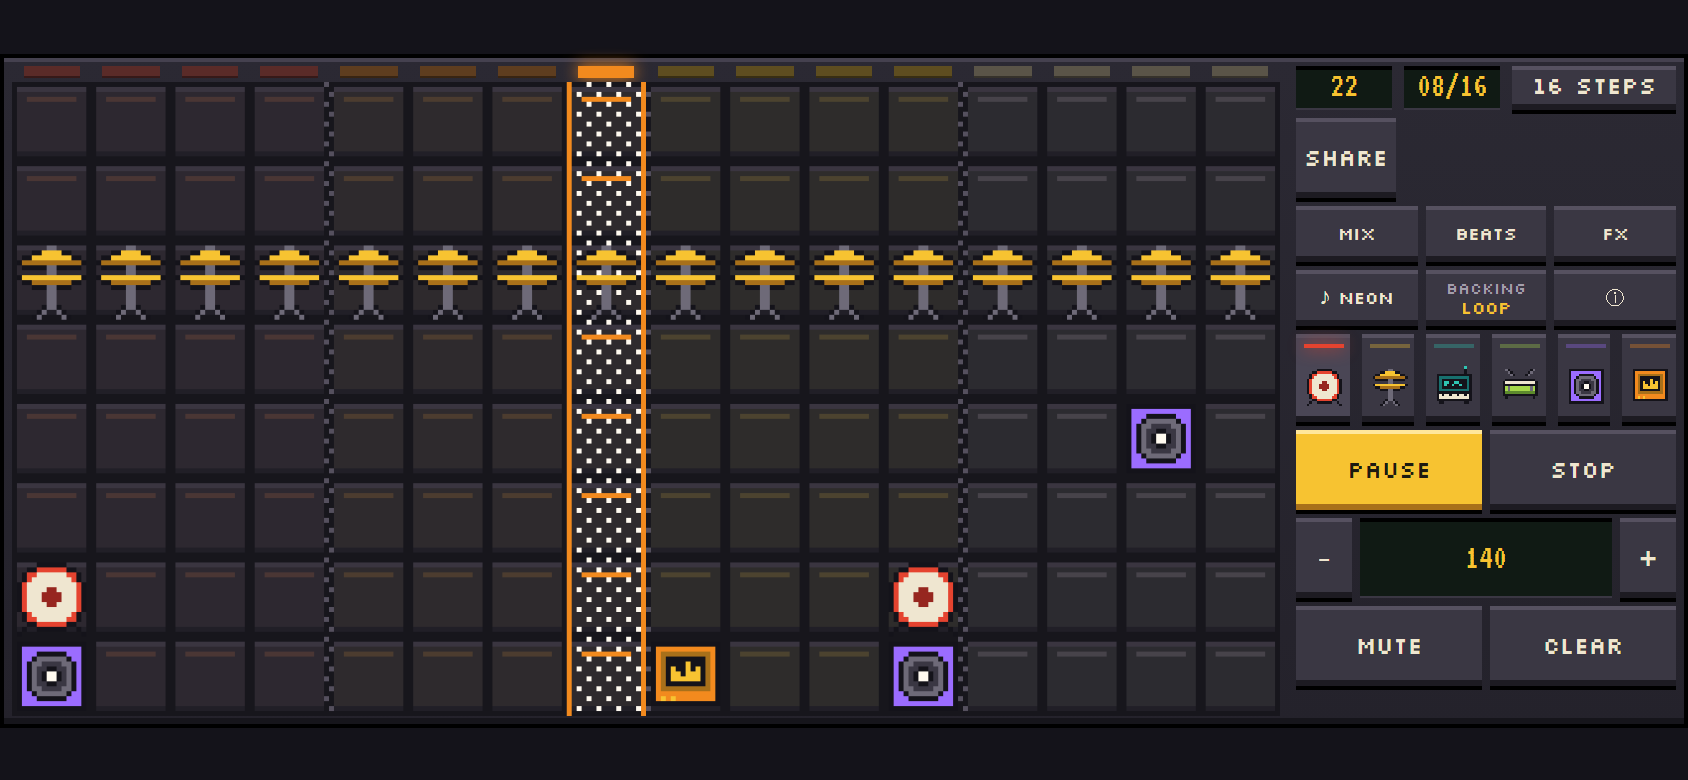
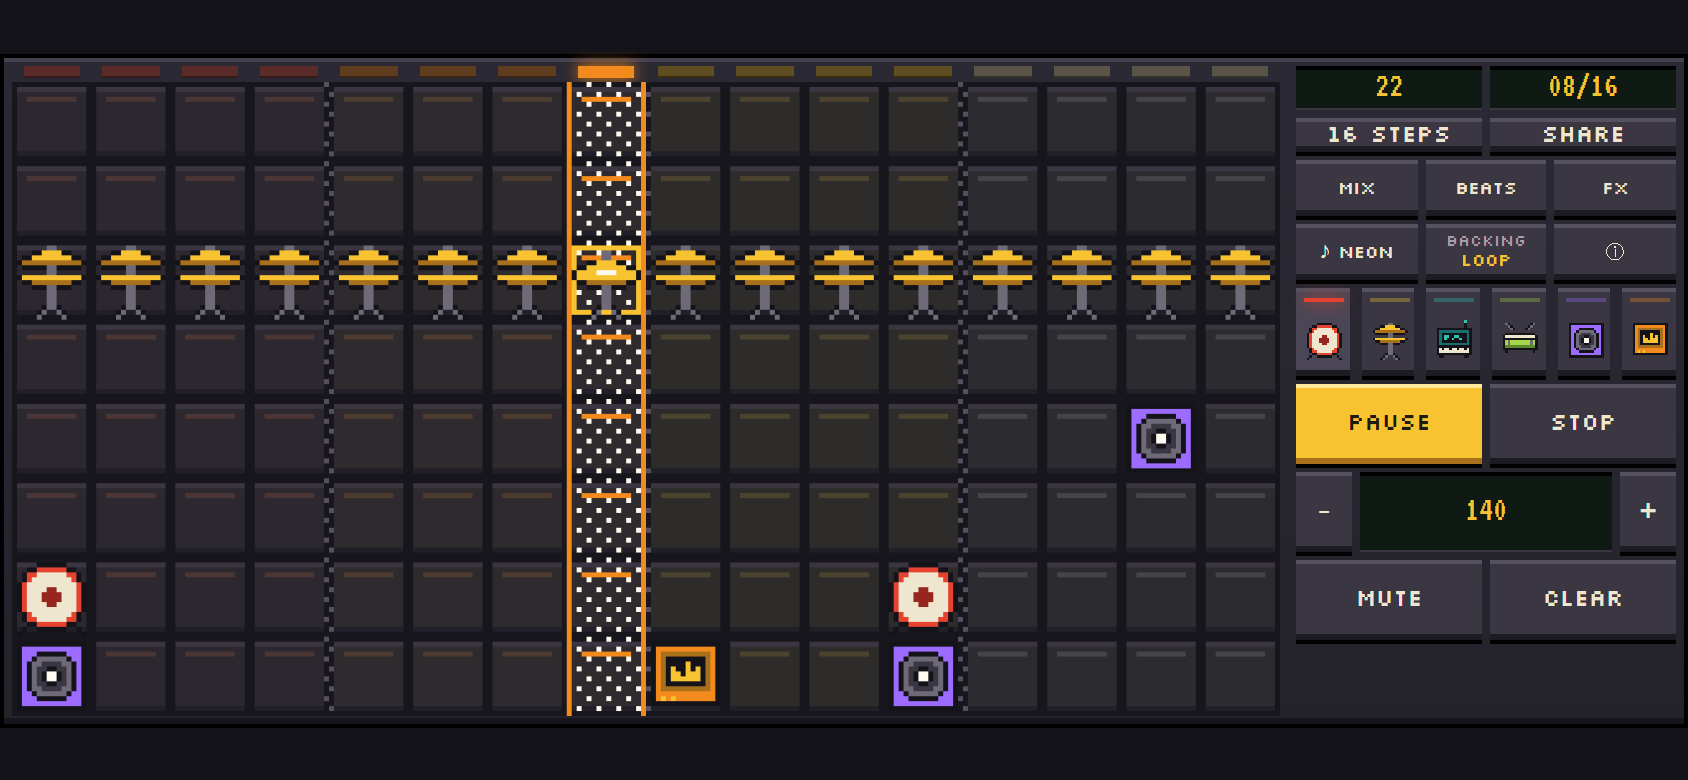
Tidy the phone header and add the MIT license
On phones held upright, Share and Follow sit beside the logo instead of
on a row of their own. Held sideways, the header tiles two to a row with
Share the same height as its neighbours.

Changed region(s): [[0.7701, 0.0615, 1.0, 0.5538], [0.7701, 0.5846, 1.0, 0.8923], [0.3389, 0.3077, 0.4005, 0.4]]

diff --git a/src/style.css b/src/style.css
@@ -129,6 +129,10 @@ body {
   min-height: 32px;
 }
 
+.sys #follow {
+  align-self: stretch;
+}
+
 /* ---- Tab row ---- */
 .tabs {
   display: grid;
@@ -1097,6 +1101,24 @@ body {
     display: block;
   }
 
+  /* Share sits beside the logo, and the readouts fill the row under them. */
+  .lcds {
+    order: 1;
+  }
+
+  .lcds > .hw {
+    flex: 1 1 auto;
+  }
+
+  .sys {
+    width: auto;
+    margin-left: auto;
+  }
+
+  .sys button {
+    min-height: 36px;
+  }
+
   #overlay.passive #rotate-hint {
     display: none;
   }
@@ -1143,20 +1165,21 @@ body {
     display: none;
   }
 
-  .lcds {
-    width: 100%;
-    margin-left: 0;
-    flex-wrap: wrap;
+  /* The readouts, length buttons, and Share tile two to a row. */
+  #hud {
+    display: grid;
+    grid-template-columns: repeat(2, minmax(0, 1fr));
+  }
+
+  .lcds,
+  .sys {
+    display: contents;
   }
 
   .lcd {
     flex: 1;
     justify-content: center;
     padding-inline: 2px;
-  }
-
-  .sys {
-    width: 100%;
   }
 
   #controls {
@@ -1189,7 +1212,8 @@ body {
   }
 
   .sys button {
-    min-height: 40px;
+    min-height: 0;
+    padding: 2px 10px;
   }
 
   .pad {

diff --git a/index.html b/index.html
@@ -17,9 +17,9 @@
           <div class="lcd"><small>Step</small><span id="step">01/16</span></div>
           <button id="page" class="hw" type="button" hidden>Page 1</button>
           <button id="length" class="hw" type="button">16 steps</button>
-          <button id="follow" class="hw" type="button" hidden aria-pressed="true" title="Follow the playhead across pages (F)">Follow</button>
         </div>
         <div class="sys">
+          <button id="follow" class="hw" type="button" hidden aria-pressed="true" title="Follow the playhead across pages (F)">Follow</button>
           <button id="share-toggle" class="hw" type="button" aria-expanded="false" aria-controls="share">Share</button>
         </div>
       </header>

diff --git a/README.md b/README.md
@@ -60,6 +60,10 @@ failing test blocks the deploy.
 Live play (the Paint/Live/Rec mode, keys A–K) and the step-light loop are built but turned off with
 `LIVE_TOOLS` in `src/config.ts`.
 
+## License
+
+The code is under the [MIT License](LICENSE). The fonts keep their own license, below.
+
 ## Credits
 
 The Silkscreen and VT323 fonts are used under the SIL Open Font License. Their licenses are in
